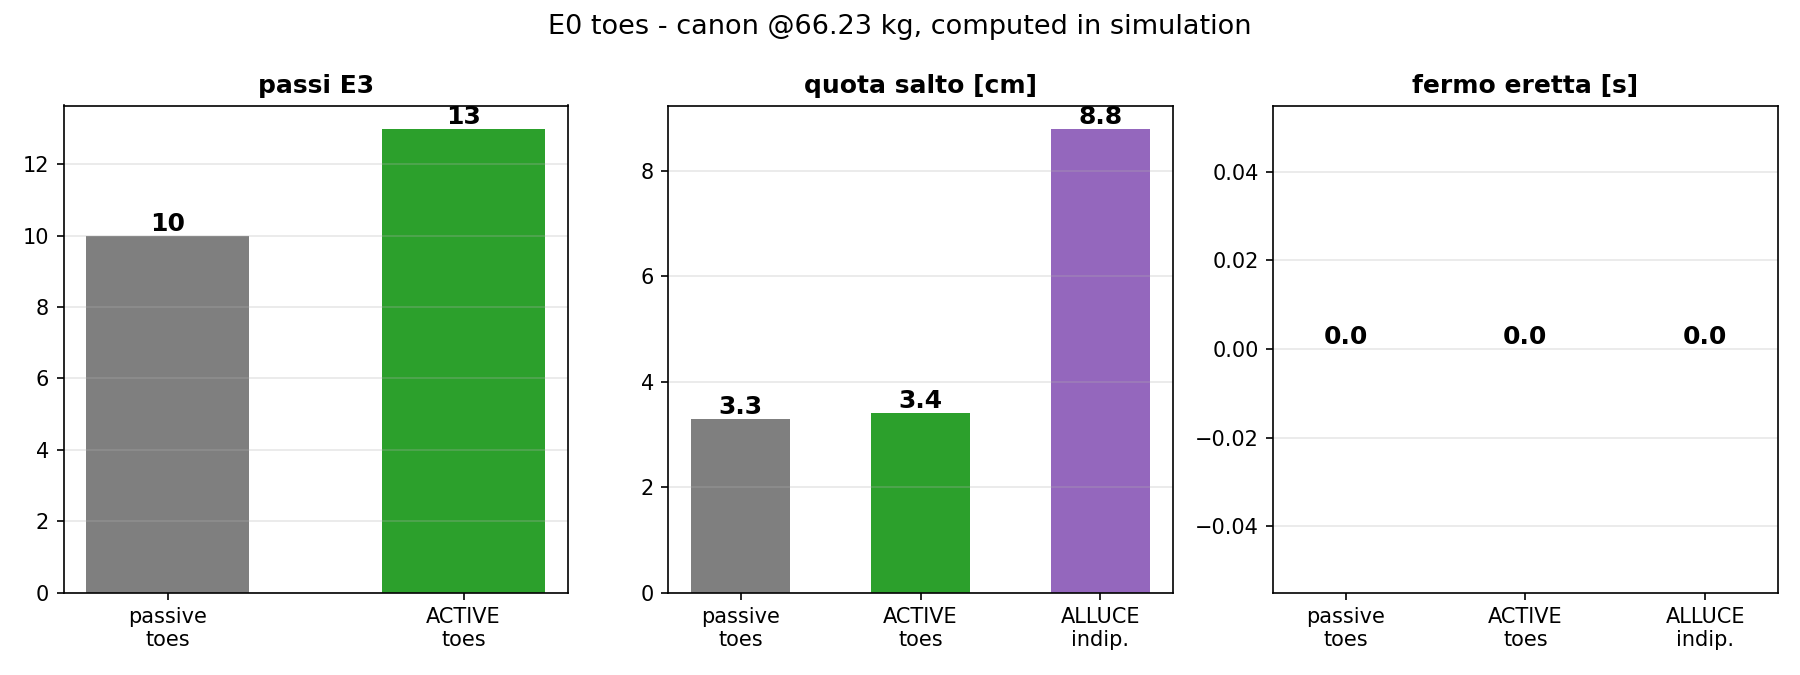
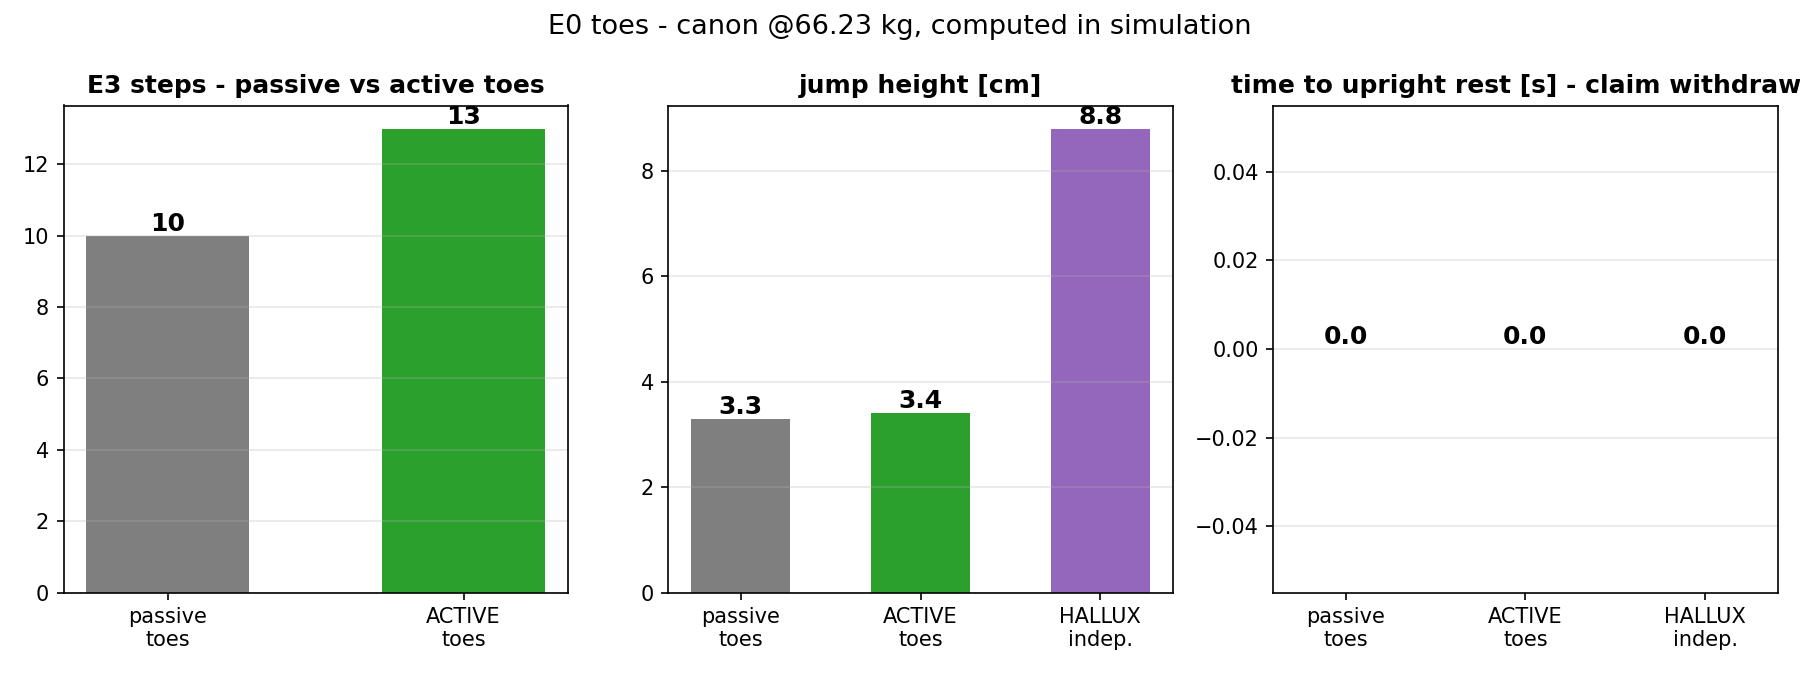
Add e3_termico and e2_e3_frontiera modules: no more orphan figures

diff --git a/F3_frontiera/e3_termico.py b/F3_frontiera/e3_termico.py
@@ -1,0 +1,121 @@
+#!/usr/bin/env python3
+# -*- coding: utf-8 -*-
+"""
+e3_termico.py - figura del bilancio termico dell'anca roll su E3 a cadenza reale.
+Rigenera outputs/e3_termico.png dai dati registrati da e3_rms: nessun valore
+scritto a mano, tutto letto dall'esecuzione.
+
+    python e3_termico.py           genera la figura
+    python e3_termico.py --test    genera e verifica i valori (RMS>0, frazioni in (0,1))
+"""
+import os as _os
+
+
+def _OUT(_n):
+    _qui = _os.path.dirname(_os.path.abspath(__file__))
+    _d = _os.path.join(_os.path.dirname(_qui), 'outputs')
+    if not _os.path.isdir(_d):
+        try:
+            _os.makedirs(_d)
+        except Exception:
+            _d = _qui
+    return _os.path.join(_d, _os.path.basename(_n))
+
+
+import sys
+import json
+import numpy as np
+import matplotlib
+matplotlib.use('Agg')
+import matplotlib.pyplot as plt
+
+VERSIONE = '1.0'
+NOMINALE = 43.0      # X8-P20, coppia continuativa dichiarata dal costruttore
+CAP = 80.0           # limitatore di progetto sul giunto
+SOGLIA_TRANS = 70.0  # confine posturale / transitorio di contatto
+
+
+def main():
+    test = '--test' in sys.argv
+    print('e3_termico.py - versione ' + VERSIONE)
+
+    _qui = _os.path.dirname(_os.path.abspath(__file__))
+    sys.path.insert(0, _qui)
+    sys.path.insert(0, _os.path.join(_os.path.dirname(_qui), 'core'))
+
+    import e3_rms                      # riusa la registrazione, non la duplica
+    e3_rms.main.__globals__['__name__'] = 'e3_rms'
+    try:
+        e3_rms.main()
+    except SystemExit:
+        pass
+
+    t = np.array(e3_rms.T)
+    F = np.abs(np.array(e3_rms.FR))     # lato R, come in e3_rms
+    if t.size < 100:
+        print('DATI INSUFFICIENTI'); sys.exit(1)
+
+    # finestra di regime: dal primo evento di presa oltre 40 N*m
+    i0 = int(np.argmax(F > 40.0))
+    t, F = t[i0:], F[i0:]
+    dt = np.gradient(t)
+
+    rms = float(np.sqrt(np.sum(F * F * dt) / np.sum(dt)))
+    sopra = F >= SOGLIA_TRANS
+    fr_tempo = float(np.sum(dt[sopra]) / np.sum(dt))
+    en_tot = float(np.sum(F * F * dt))
+    fr_calore = float(np.sum(F[sopra] ** 2 * dt[sopra]) / en_tot)
+    post = float(np.sqrt(np.sum(F[~sopra] ** 2 * dt[~sopra]) / np.sum(dt[~sopra])))
+
+    print(' steady-state window [%.2f, %.2f] s' % (t[0], t[-1]))
+    print(' total RMS      %.1f N*m = %.0f%% of rated' % (rms, 100 * rms / NOMINALE))
+    print(' postural RMS   %.1f N*m = %.0f%% of rated (%.1f%% of cycle)'
+          % (post, 100 * post / NOMINALE, 100 * (1 - fr_tempo)))
+    print(' transients     %.1f%% of cycle -> %.0f%% of dissipation'
+          % (100 * fr_tempo, 100 * fr_calore))
+
+    fig, ax = plt.subplots(figsize=(11, 4.4))
+    ax.plot(t, F, color='#1f77b4', lw=0.9)
+    ax.fill_between(t, SOGLIA_TRANS, np.minimum(F, CAP), where=sopra,
+                    color='#d62728', alpha=0.22, linewidth=0)
+    ax.axhline(CAP, color='#d62728', ls='--', lw=1.2)
+    ax.axhline(NOMINALE, color='#ff7f0e', ls='--', lw=1.4)
+    ax.text(t[-1], CAP + 1.2, '%.0f cap' % CAP, ha='right', va='bottom',
+            color='#d62728', fontsize=9.5)
+    ax.text(t[-1], NOMINALE + 1.2, '%.0f rated (X8)' % NOMINALE, ha='right',
+            va='bottom', color='#ff7f0e', fontsize=9.5)
+    ax.annotate('contact transients - %.1f%% of cycle' % (100 * fr_tempo),
+                xy=(0.012, 0.94), xycoords='axes fraction', fontsize=11,
+                fontweight='bold', color='#b02020', va='top')
+    ax.annotate('-> %.0f%% of dissipation' % (100 * fr_calore),
+                xy=(0.012, 0.855), xycoords='axes fraction', fontsize=11,
+                color='#b02020', va='top')
+    ax.set_xlabel('t [s] - steady-state window (start = first grab > 40 N·m)')
+    ax.set_ylabel('hip roll torque [N·m]')
+    ax.set_title('E3 walking @66.23 kg - RMS %.1f N·m (%.0f%% of rated) [C]'
+                 % (rms, 100 * rms / NOMINALE), fontsize=12, fontweight='bold')
+    ax.set_ylim(0, CAP * 1.12)
+    ax.grid(alpha=0.25)
+    fig.text(0.012, 0.012,
+             'postural %.1f N·m = %.0f%% of rated (RMS outside contact transients)'
+             % (post, 100 * post / NOMINALE), fontsize=9, style='italic', color='#555')
+    fig.tight_layout(rect=[0, 0.045, 1, 1])
+    fig.savefig(_OUT('e3_termico.png'), dpi=150)
+    print('Salvato e3_termico.png')
+
+    json.dump(dict(versione=VERSIONE, rms_Nm=round(rms, 1),
+                   posturale_Nm=round(post, 1),
+                   transitori_tempo_pct=round(100 * fr_tempo, 1),
+                   transitori_calore_pct=round(100 * fr_calore, 0),
+                   nominale_Nm=NOMINALE, cap_Nm=CAP,
+                   finestra_s=[round(float(t[0]), 2), round(float(t[-1]), 2)]),
+              open(_OUT('e3_termico.json'), 'w'), indent=1)
+
+    if test:
+        ok = rms > 0 and 0 < fr_tempo < 1 and 0 < fr_calore < 1 and post > 0
+        print('TEST ' + ('PASS' if ok else 'FAIL'))
+        sys.exit(0 if ok else 1)
+
+
+if __name__ == '__main__':
+    main()

diff --git a/F3_frontiera/e2_e3_frontiera.py b/F3_frontiera/e2_e3_frontiera.py
@@ -1,0 +1,96 @@
+#!/usr/bin/env python3
+# -*- coding: utf-8 -*-
+"""
+e2_e3_frontiera.py - figura della frontiera E2 vs E3.
+Confronta i passi del ciclo a evento (E2) con quelli della marcia avanti
+comandata (E3). I due conteggi sono letti dalla chiave canone_rettificato di
+config/joint_limits_v2.json, non scritti a mano.
+
+    python e2_e3_frontiera.py           genera la figura
+    python e2_e3_frontiera.py --test    genera e verifica (conteggi > 0, rapporto coerente)
+"""
+import os as _os
+
+
+def _MP(_n):
+    _qui = _os.path.dirname(_os.path.abspath(__file__))
+    _base = _os.path.dirname(_qui)
+    for _c in (_n, _os.path.join(_base, 'config', _os.path.basename(_n))):
+        if _os.path.exists(_c):
+            return _c
+    return _os.path.join(_base, 'config', _os.path.basename(_n))
+
+
+def _OUT(_n):
+    _qui = _os.path.dirname(_os.path.abspath(__file__))
+    _d = _os.path.join(_os.path.dirname(_qui), 'outputs')
+    if not _os.path.isdir(_d):
+        try:
+            _os.makedirs(_d)
+        except Exception:
+            _d = _qui
+    return _os.path.join(_d, _os.path.basename(_n))
+
+
+import sys
+import re
+import json
+import matplotlib
+matplotlib.use('Agg')
+import matplotlib.pyplot as plt
+
+VERSIONE = '1.0'
+
+
+def dal_canone():
+    """Legge E1/E2/E3 dalla chiave di canone. Nessun valore a memoria."""
+    d = json.load(open(_MP('joint_limits_v2.json'), encoding='utf-8'))
+    testo = json.dumps(d.get('_nova_sim_campaign_v1', {}), ensure_ascii=False)
+    e2 = re.search(r'E2\s+(\d+)\s+cicli', testo)
+    e3 = re.search(r'E3\s+(\d+)\s+passi', testo)
+    if not (e2 and e3):
+        raise SystemExit('conteggi E2/E3 non trovati nella chiave di canone')
+    return int(e2.group(1)), int(e3.group(1))
+
+
+def main():
+    test = '--test' in sys.argv
+    print('e2_e3_frontiera.py - versione ' + VERSIONE)
+
+    n2, n3 = dal_canone()
+    rap = n2 / float(n3)
+    print(' E2 %d cycles | E3 %d steps | ratio %.1f' % (n2, n3, rap))
+
+    fig, ax = plt.subplots(figsize=(7.2, 5.2))
+    barre = ax.bar(['E2\nevent-triggered timing,\nretrograde equilibrium',
+                    'E3\ncommanded forward\nwalking'],
+                   [n2, n3], color=['#1f77b4', '#2ca02c'], width=0.5)
+    for b, v in zip(barre, (n2, n3)):
+        ax.text(b.get_x() + b.get_width() / 2, v + max(n2, n3) * 0.03,
+                '%d steps' % v, ha='center', fontsize=13, fontweight='bold')
+    ax.annotate('', xy=(1, n3 + max(n2, n3) * 0.10),
+                xytext=(0, n2 - max(n2, n3) * 0.06),
+                arrowprops=dict(arrowstyle='->', color='#d62728', lw=2))
+    ax.text(0.52, (n2 + n3) / 2.0 + max(n2, n3) * 0.06, 'ratio %.1f' % rap,
+            ha='center', fontsize=15, fontweight='bold', color='#d62728')
+    ax.set_ylabel('steps [C]')
+    ax.set_ylim(0, max(n2, n3) * 1.16)
+    ax.set_title('E2 vs E3 frontier @66.23 kg - computed in simulation',
+                 fontsize=12, fontweight='bold')
+    ax.grid(axis='y', alpha=0.25)
+    fig.tight_layout()
+    fig.savefig(_OUT('e2_e3_frontiera.png'), dpi=150)
+    print('Salvato e2_e3_frontiera.png')
+
+    json.dump(dict(versione=VERSIONE, E2_cicli=n2, E3_passi=n3,
+                   rapporto=round(rap, 1)),
+              open(_OUT('e2_e3_frontiera.json'), 'w'), indent=1)
+
+    if test:
+        ok = n2 > 0 and n3 > 0 and 1.0 < rap < 10.0
+        print('TEST ' + ('PASS' if ok else 'FAIL'))
+        sys.exit(0 if ok else 1)
+
+
+if __name__ == '__main__':
+    main()

diff --git a/F3_frontiera/e0_dita.py b/F3_frontiera/e0_dita.py
@@ -345,15 +345,15 @@ def campagna():
     matplotlib.use('Agg')
     import matplotlib.pyplot as plt
     fig, axs = plt.subplots(1, 3, figsize=(12, 4.5))
-    coppie = [('camminata_E3', 'passi', 'passi E3'),
-              ('salto', 'quota_cm', 'quota salto [cm]'),
-              ('atterraggio_E6', 'fermo_s', 'fermo eretta [s]')]
+    coppie = [('camminata_E3', 'passi', 'E3 steps - passive vs active toes'),
+              ('salto', 'quota_cm', 'jump height [cm]'),
+              ('atterraggio_E6', 'fermo_s', 'time to upright rest [s] - claim withdrawn')]
     for ax, (k, campo, tit) in zip(axs, coppie):
         eti = ['passive\ntoes', 'ACTIVE\ntoes']
         vals = [ris[k]['senza'][campo], ris[k]['con'][campo]]
         col = ['tab:gray', 'tab:green']
         if 'alluce' in ris[k]:
-            eti.append('ALLUCE\nindip.')
+            eti.append('HALLUX\nindep.')
             vals.append(ris[k]['alluce'][campo])
             col.append('tab:purple')
         ax.bar(eti, vals, color=col, width=0.55)
